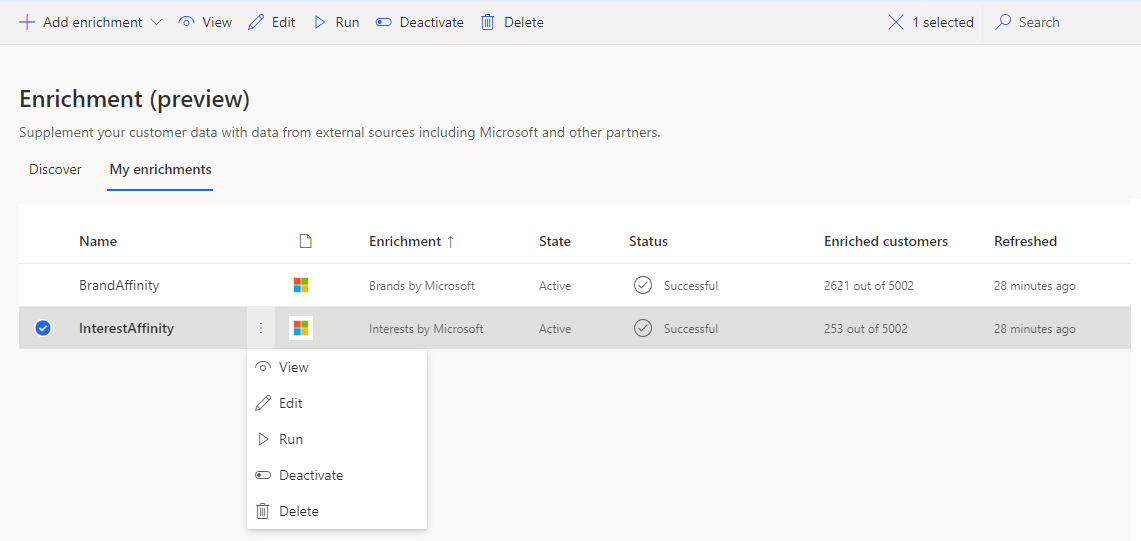
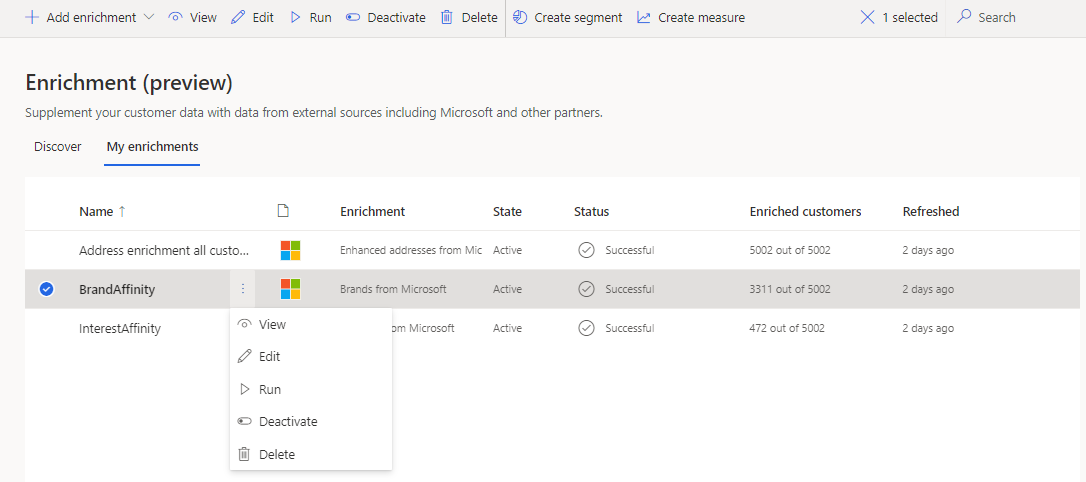
Results and TOC updates

diff --git a/ci-docs/enrichment-hub.md b/ci-docs/enrichment-hub.md
@@ -31,29 +31,29 @@ On the **Discover** tab, you'll find all supported enrichment options.
 
 # [Individual consumers (B-to-C)](#tab/b2c)
 
+- [AbiliTec Identity](enrichment-liveramp.md) provided by LiveRamp AbiliTec
 - [Brands](enrichment-microsoft.md) provided by Microsoft
-- [Interests](enrichment-microsoft.md) provided by Microsoft
-- [Enhanced addresses](enrichment-enhanced-addresses.md) provided by Microsoft 
 - [Demographics](enrichment-experian.md) provided by Experian
-- [Custom data](enrichment-SFTP-custom-import.md) through Secure File Transfer Protocol (SFTP) 
-- [Azure Maps](enrichment-azure-maps.md) provided by Microsoft
-- [Location data](enrichment-here.md) provided by HERE Technologies 
-- [Identity](enrichment-liveramp.md) provided by LiveRamp AbiliTec
+- [Enhanced addresses](enrichment-enhanced-addresses.md) provided by Microsoft
+- [Interests](enrichment-microsoft.md) provided by Microsoft
+- [Location data](enrichment-azure-maps.md) provided by Microsoft Azure Maps
+- [Location data](enrichment-here.md) provided by HERE Technologies
+- [SFTP custom data](enrichment-SFTP-custom-import.md) through Secure File Transfer Protocol (SFTP)
 
 # [Business accounts (B-to-B)](#tab/b2b)
 
+- [Account engagement data](enrichment-office.md) provided by Microsoft
+- [Company data](enrichment-dnb.md) provided by Dun & Bradstreet
 - [Company data](enrichment-leadspace.md) provided by Leadspace
-- [Enhanced addresses](enrichment-enhanced-addresses.md) provided by Microsoft 
+- [Enhanced addresses](enrichment-enhanced-addresses.md) provided by Microsoft
 - [Enhanced company data](enrichment-enhanced-company-data.md) provided by Microsoft
+- [Location data](enrichment-azure-maps.md) provided by Microsoft Azure Maps
 - [Location data](enrichment-here.md) provided by HERE Technologies 
 - [Custom data](enrichment-SFTP-custom-import.md) through Secure File Transfer Protocol (SFTP) 
-- [Azure Maps](enrichment-azure-maps.md) provided by Microsoft
-- [Company data](enrichment-dnb.md) provided by Dun & Bradstreet
-- [Account engagement data](enrichment-office.md) provided by Microsoft
 
 ---
 
-On the **My enrichments** tab, you can see the enrichments you've configured and edit their properties.
+On the **My enrichments** tab, you can see the enrichments you've configured and edit their properties. You also have the option to create [segments](segments.md) or [measures](measures.md) from an enrichment.
 
 ## Manage existing enrichments
 
@@ -77,7 +77,7 @@ Third-party enrichments are configured using [connections](connections.md), whic
 
 ## Multiple enrichments of the same type
 
-The entity to be enriched is specified during the enrichment configuration, which allows you to enrich only a subset of your profiles. For example, enrich data only for a specific segment. You can configure several enrichments of the same type and reuse the same connection. Some enrichments will have limits to the number of enrichments of the same type that can be created. The limits and current use can be seen on the **Enrichment** page.
+The entity to be enriched is specified during the enrichment configuration, which allows you to enrich only a subset of your profiles. For example, enrich data only for a specific segment. You can configure several enrichments of the same type and reuse the same connection. Some enrichments will have limits to the number of enrichments of the same type that can be created. The limits and current use can be seen on each tile on the **Discover** tab of the **Enrichment** page.
 
 ## Enrich data sources before unification
 
@@ -98,10 +98,10 @@ You can enrich your customer data before data unification to help increase the q
 You can find details about the processing of an enrichment, including it status and potential issues while it's refreshing or after a refresh completed. Understand which processes are involved to refresh an enrichment and how long it took to run the processes. The enrichment status is supported for Experian, Leadspace, HERE Technologies, SFTP Import, and Azure Maps.
 
 1. Go to **Data** > **Enrichment**.
-1. In the **My enrichments** tab, select the status of an enrichment to open a side pane. 
-1. In the **Progress details** pane, expand the **Enrichments** section. 
-1. Under the enrichment you want to see the progress, select **See details**. 
-1. In the **Task details** pane, select **Show details** to see the processes that are involved in updating the enrichment and their status. 
+1. In the **My enrichments** tab, select the status of an enrichment to open a side pane.
+1. In the **Progress details** pane, expand the **Enrichments** section.
+1. Under the enrichment you want to see the progress, select **See details**.
+1. In the **Task details** pane, select **Show details** to see the processes that are involved in updating the enrichment and their status.
 
 ## Enrichment results
 
@@ -110,9 +110,11 @@ After a completed enrichment run, review the enrichment results.
 1. Go to **Data** > **Enrichment**.
 1. In the **My enrichments** tab, select the enrichment that you want information about.
 
-All enrichments show basic information such as the number of enriched profiles, a preview of the generated enrichment entity, and the number of enriched profiles over time. If available, the **Number of customers enriched by field** provides a drill-down into the coverage of each enriched field.
+All enrichments show basic information such as the number of enriched profiles and the number of enriched profiles over time. The **Enriched customers preview** tile shows a sample of the generated enrichment entity. To see a detailed view, select **See more** and select the **Data** tab.
 
 :::image type="content" source="media/enrichments-results.png" alt-text="Enrichments results page.":::
+
+If available, the **Number of customers enriched by field** provides a drill-down into the coverage of each enriched field.
 
 Some enrichments also show information specific to the type of enrichment. Refer to the documentation for the relevant enrichment for more information.
 

diff --git a/ci-docs/enrichment-microsoft.md b/ci-docs/enrichment-microsoft.md
@@ -1,5 +1,5 @@
 ---
-title: "Enrich customer profiles with data from Microsoft"
+title: "Enrich customer profiles with brands and interests data from Microsoft"
 description: "Use proprietary data from Microsoft to enrich your customer data with affinities and share of voice."
 ms.date: 03/02/2022
 ms.reviewer: mhart
@@ -106,9 +106,11 @@ After a completed [enrichment run](enrichment-hub.md#run-or-refresh-an-enrichmen
 
 :::image type="content" source="media/my-enrichments.png" alt-text="Preview of results after running the enrichment process.":::
 
-The results include **Affinity Level** or **Share of Voice** charts. Enriched data for brands goes to the **BrandAffinityFromMicrosoft** and **BrandShareOfVoiceFromMicrosoft** entities. Data for interests is in the **InterestAffinityFromMicrosoft** and **InterestShareOfVoiceFromMicrosoft** entities. You'll also find these entities listed in the **Enrichment** group in **Data** > **Entities**.
+The results include **Affinity Level** or **Share of Voice** charts.
 
 A chart shows the number of enriched customers over time and the **Enriched customers preview** tile shows a sample of the enriched data. Select **See more** and select the **Data** tab to access a detailed view of each enriched profile.
+
+The entities created from the enrichments are listed under the **Enrichment** group in **Data** > **Entities**. Enriched data for brands goes to the **BrandAffinityFromMicrosoft** and **BrandShareOfVoiceFromMicrosoft** entities. Data for interests is in the **InterestAffinityFromMicrosoft** and **InterestShareOfVoiceFromMicrosoft** entities.
 
 ## See enrichment data on the customer card
 

diff --git a/ci-docs/enrichment-office.md b/ci-docs/enrichment-office.md
@@ -71,7 +71,7 @@ When you run an enrichment, Microsoft will process the data within the Office 36
 
 ## Enrichment results
 
-After a completed [enrichment run](enrichment-hub.md#run-or-refresh-an-enrichment), select the enrichment to review the results. By default, the enrichment runs once per week.
+[!INCLUDE [enrichment-results](includes/enrichment-results.md)] This is the *Office* entity. The *Office_UserEntity* contains the Active Directory IDs for the email addresses that were chosen during enrichment configuration.
 
 :::image type="content" source="media/enrichment-office-results-overview.png" alt-text="Preview of results after running the enrichment process.":::
 
@@ -97,8 +97,6 @@ All data is aggregated up to the account level. The system calculates an engagem
 | Aggregation start date                                                            |  AggregationStartDate                    | 
 | Aggregation level (year, month, or week)                                          |  AggregationLevel                        | 
 
-
-In addition to the standard results, the **Enriched customers preview** tile shows a sample of the enriched data. Select **See more** and select the **Data** tab to access a detailed view of each enriched profile. This is the *Office* entity. The *Office_UserEntity* contains the Active Directory IDs for the email addresses that were chosen during enrichment configuration.
 
 ## See enrichment data on the customer card
 

diff --git a/ci-docs/enrichment-enhanced-addresses.md b/ci-docs/enrichment-enhanced-addresses.md
@@ -99,14 +99,16 @@ We currently support enriching addresses in these countries or regions:
 
 ## Enrichment results
 
-After a completed [enrichment run](enrichment-hub.md#run-or-refresh-an-enrichment), select the enrichment to review the results.
+[!INCLUDE [enrichment-results](includes/enrichment-results.md)]
 
-The **Customers changes overview** tile shows details about the coverage of the enrichment:
+The **Number of customers enriched by field** provides a drill-down into the coverage of each enriched field.
+
+### Overview card
+
+The **Customers changes overview** card shows details about the coverage of the enrichment:
 - **Addresses processed and changed**: The number of customer profiles with addresses that were successfully enriched.
 - **Addresses processed and not changed**: The number of customer profiles with addresses that were recognized but not changed. It typically happens when the input data is valid and can't be improved by the enrichment.
 - **Addresses not processed and not changed**: The number of profiles with addresses that were not recognized. Usually for input data that is invalid or not supported by the enrichment.
-
-The **Enriched customers preview** tile shows a sample of the enriched data. Select **See more** and select the **Data** tab to access a detailed view of each enriched profile.
 
 ## Next steps
 

diff --git a/ci-docs/enrichment-enhanced-company-data.md b/ci-docs/enrichment-enhanced-company-data.md
@@ -82,14 +82,14 @@ The model doesn't:
 
 ## Enrichment results
 
-After a completed [enrichment run](enrichment-hub.md#run-or-refresh-an-enrichment), select the enrichment to review the results.
+[!INCLUDE [enrichment-results](includes/enrichment-results.md)]
+
+### Overview card
 
 The **Customers changes overview** tile shows details about the coverage of the enrichment
 - **Companies processed and changed**: The number of customer company profiles that were successfully enriched.
 - **Companies processed and not changed**: The number of customer company profiles that were recognized but not changed. This typically happens when the input data is valid and can't be improved by the enrichment.
 - **Companies not processed and not changed**: The number of customer company profiles that were not recognized. This typically happens for input data that are invalid or not supported by the enrichment.
-
-In addition to the standard results, the **Enriched customers preview** tile shows a sample of the enriched data. Select **See more** and select the **Data** tab to access a detailed view of each enriched profile.
 
 ## Next steps
 

diff --git a/ci-docs/includes/enrichment-results.md b/ci-docs/includes/enrichment-results.md
@@ -1,3 +1,3 @@
-After a completed [enrichment run](enrichment-hub.md#run-or-refresh-an-enrichment), select the enrichment to review the results.
+After a completed [enrichment run](../enrichment-hub.md#run-or-refresh-an-enrichment), select the enrichment to review the [results](../enrichment-hub.md#enrichment-results).
 
-In addition to the standard results, the **Enriched customers preview** tile shows a sample of the enriched data. Select **See more** and select the **Data** tab to access a detailed view of each enriched profile.
+The results show the number of enriched profiles and the number of enriched profiles over time. The **Enriched customers preview** card shows a sample of the generated enrichment entity. To see a detailed view, select **See more** and select the **Data** tab.

diff --git a/ci-docs/enrichment-liveramp.md b/ci-docs/enrichment-liveramp.md
@@ -79,6 +79,8 @@ When you enable Dynamics 365 Customer Insights to transmit data to LiveRamp, you
 
 [!INCLUDE [enrichment-results](includes/enrichment-results.md)]
 
+The **Number of customers enriched by field** provides a drill-down into the coverage of each enriched field.
+
 ## Next steps
 
 Build on top of your enriched customer data. Use the AbiliTec IDs to consolidate customer profiles into a person-based view.

diff --git a/ci-docs/enrichment-azure-maps.md b/ci-docs/enrichment-azure-maps.md
@@ -82,6 +82,8 @@ Your Dynamics 365 Customer Insights Administrator can remove this enrichment at 
 
 [!INCLUDE [enrichment-results](includes/enrichment-results.md)]
 
+The **Number of customers enriched by field** provides a drill-down into the coverage of each enriched field.
+
 ## Next steps
 
 [!INCLUDE [next-steps-enrichment](includes/next-steps-enrichment.md)]

diff --git a/ci-docs/enrichment-experian.md b/ci-docs/enrichment-experian.md
@@ -79,6 +79,8 @@ When you enable Dynamics 365 Customer Insights to transmit data to Experian, you
 
 [!INCLUDE [enrichment-results](includes/enrichment-results.md)]
 
+The **Number of customers enriched by field** provides a drill-down into the coverage of each enriched field.
+
 ## Next steps
 
 [!INCLUDE [next-steps-enrichment](includes/next-steps-enrichment.md)]

diff --git a/ci-docs/enrichment-here.md b/ci-docs/enrichment-here.md
@@ -72,6 +72,8 @@ Your Dynamics 365 Customer Insights administrator can remove this enrichment at 
 
 [!INCLUDE [enrichment-results](includes/enrichment-results.md)]
 
+The **Number of customers enriched by field** provides a drill-down into the coverage of each enriched field.
+
 ## Next steps
 
 [!INCLUDE [next-steps-enrichment](includes/next-steps-enrichment.md)]
